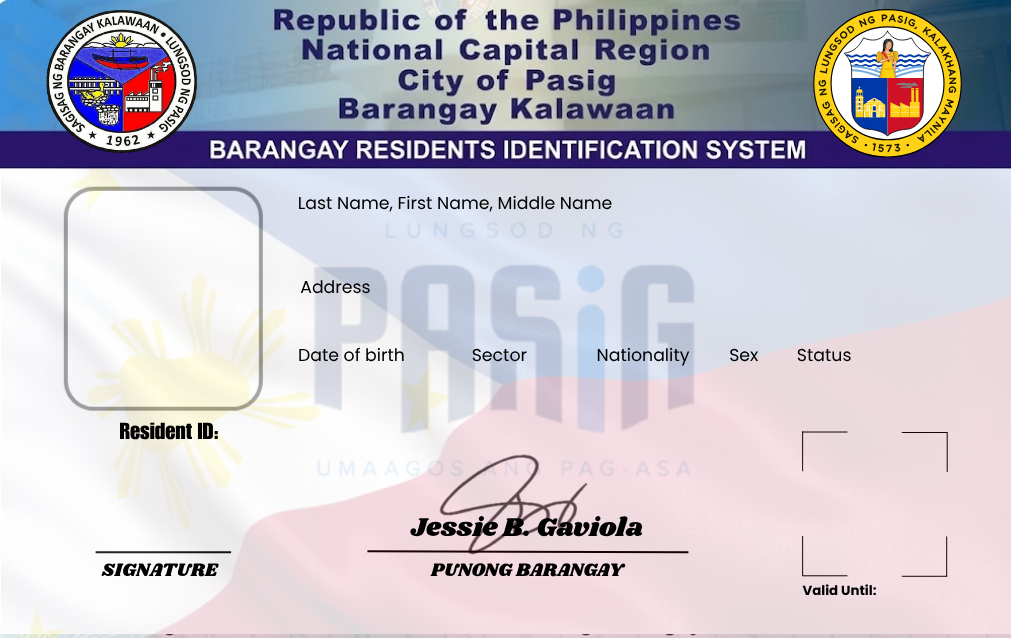
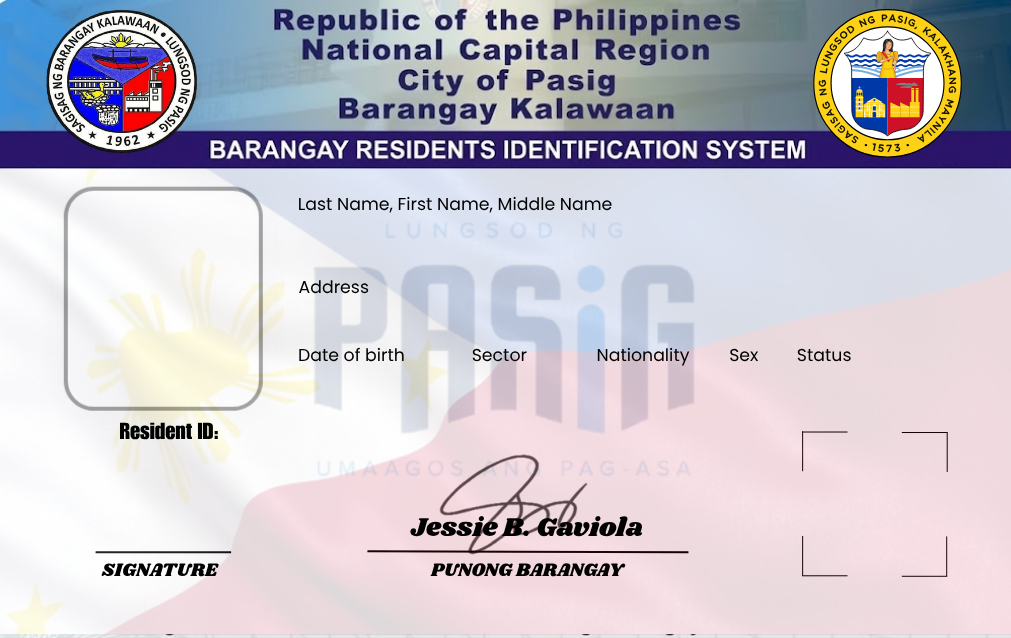
back id template

diff --git a/resources/views/ids/index.blade.php b/resources/views/ids/index.blade.php
@@ -51,17 +51,16 @@
                         <div style="position: absolute; left: 79.6%; top: 68.5%; width: 14%; height: 20.8%; border: 1px solid #000; background: #fff; display: flex; align-items: center; justify-content: center; padding: 2px;">
                             <img id="preview-qr-front" alt="QR Code" style="width: 100%; height: 100%; object-fit: contain; display: none;">
                         </div>
-                        <div id="preview-validity" style="position: absolute; left: 79.6%; top: 100%; width: 14%; font-size: 7px; font-weight: 800; text-align: center; color: #111; white-space: nowrap; overflow: hidden; text-overflow: ellipsis;">-</div>
+                        <div id="preview-validity" style="position: absolute; left: 74.6%; top: 91.4%; width: 24%; font-size: 7px; font-weight: 800; text-align: center; color: #111; white-space: nowrap; overflow: hidden; text-overflow: ellipsis;">Valid Until: -</div>
                     </div>
 
                     <!-- BACK PREVIEW -->
-                    <div class="id-card-preview position-relative overflow-hidden shadow-sm" style="width: 100%; max-width: 600px; margin: 0 auto; background-color: #f8f9fa; border-radius: 12px; font-family: sans-serif;">
-                        <!-- Background Pattern -->
-                        <div class="position-absolute w-100 h-100" style="opacity: 0.6; background: repeating-radial-gradient(circle at 0 100%, transparent 0, transparent 10px, rgba(0,56,168,0.03) 11px, rgba(0,56,168,0.03) 12px), repeating-radial-gradient(circle at 100% 0, transparent 0, transparent 10px, rgba(206,17,38,0.03) 11px, rgba(206,17,38,0.03) 12px); pointer-events: none;"></div>
+                    <div class="id-card-preview position-relative overflow-hidden shadow-sm" style="aspect-ratio: 1.586/1; width: 100%; max-width: 600px; margin: 0 auto; background-color: #f8f9fa; border-radius: 12px; font-family: sans-serif;">
+                        <img src="{{ asset('images/back-id.png') }}" alt="ID Back Template" style="position: absolute; inset: 0; width: 100%; height: 100%; object-fit: cover; display: block;">
 
                         <!-- Top Section: Emergency Contact Info -->
                         <div style="padding: 12px 14px; position: relative; z-index: 1;">
-                            <div style="text-align: center; font-weight: bold; color: #0038A8; font-size: 1.05rem; letter-spacing: 0.5px; margin-bottom: 8px; line-height: 1.2;">IN CASE OF EMERGENCY, KINDLY NOTIFY:</div>
+                            <div style="text-align: center; font-weight: bold; color: #fff; font-size: 1.05rem; letter-spacing: 0.5px; margin-bottom: 8px; line-height: 1.2;">IN CASE OF EMERGENCY, KINDLY NOTIFY:</div>
                             
                             <table style="width: 100%; font-size: 0.95rem; border-collapse: collapse; margin-bottom: 6px;">
                                 <tr style="line-height: 1.6;">
@@ -454,7 +453,7 @@ document.addEventListener('DOMContentLoaded', function() {
                     previewQrFront.style.display = 'block';
                 }
             }
-            previewValidity.textContent = formatDate(idData.expiration_date) || '-';
+            previewValidity.textContent = `Valid Until: ${formatMonthYear(idData.expiration_date) || '-'}`;
         } else {
             if (previewIdNo) previewIdNo.textContent = 'PENDING';
             if (previewQrFront) {
@@ -468,9 +467,9 @@ document.addEventListener('DOMContentLoaded', function() {
                 const month = createdDate.getMonth();
                 const date = createdDate.getDate();
                 const validityDate = new Date(year, month, date).toISOString().split('T')[0];
-                previewValidity.textContent = formatDate(validityDate);
+                previewValidity.textContent = `Valid Until: ${formatMonthYear(validityDate)}`;
             } else {
-                previewValidity.textContent = '-';
+                previewValidity.textContent = 'Valid Until: -';
             }
         }
     }
@@ -602,6 +601,7 @@ document.addEventListener('DOMContentLoaded', function() {
         const signatureUrl = resolveMediaUrl(currentResident.signature);
 
         const templateUrl = `${window.location.protocol}//${window.location.host}/images/id-template-blank.png`;
+        const backTemplateUrl = `${window.location.protocol}//${window.location.host}/images/back-id.png`;
 
         // Function to fetch and convert image to base64
         async function getImageBase64(url) {
@@ -624,17 +624,19 @@ document.addEventListener('DOMContentLoaded', function() {
         Promise.all([
             getImageBase64(photoUrl),
             getImageBase64(signatureUrl),
-            getImageBase64(templateUrl)
-        ]).then(([photoBase64, signatureBase64, templateBase64]) => {
+            getImageBase64(templateUrl),
+            getImageBase64(backTemplateUrl)
+        ]).then(([photoBase64, signatureBase64, templateBase64, backTemplateBase64]) => {
             const photoSrc = photoBase64;
             const signatureSrc = signatureBase64;
             const templateSrc = templateBase64 || templateUrl;
+            const backTemplateSrc = backTemplateBase64 || backTemplateUrl;
             const fullNamePrint = `${currentResident.last_name || ''}, ${currentResident.first_name || ''} ${currentResident.middle_name || ''}${currentResident.suffix ? ' ' + currentResident.suffix : ''}`.replace(/\s+/g, ' ').trim();
             const addressPrint = (currentResident.address || '-').replace(/\s+/g, ' ').trim();
             const sectorPrint = (currentResident.special_sector || '-').replace(/\s+/g, ' ').trim();
             const sectorLeftPrint = getSectorLeftPosition(currentResident.special_sector);
             const idNumberPrint = (currentID.id_number || '-').replace(/\s+/g, ' ').trim();
-            const validityPrint = formatDate(currentID.expiration_date);
+            const validityPrint = `Valid Until: ${formatMonthYear(currentID.expiration_date)}`;
 
             const nameFont = fitFontSize(fullNamePrint, 8.2, 5.4, 34);
             const addressFont = fitFontSize(addressPrint, 6.8, 5.1, 44);
@@ -668,15 +670,15 @@ document.addEventListener('DOMContentLoaded', function() {
                                 <div style="position: absolute; left: 79.6%; top: 68.5%; width: 14%; height: 20.8%; background: #fff; display: flex; align-items: center; justify-content: center; padding: 2px;">
                                     ${currentID.qr_code ? `<img src="${currentID.qr_code}" alt="QR" style="width: 100%; height: 100%; object-fit: contain;">` : ''}
                                 </div>
-                                <div style="position: absolute; left: 78.8%; top: 93%; width: 15.6%; text-align: center; font-size: 5px; font-weight: 900; white-space: nowrap; overflow: hidden; letter-spacing: 0.1px; ${printStrongStyle}">${validityPrint}</div>
+                                <div style="position: absolute; left: 74.6%; top: 92.3%; width: 24%; text-align: center; font-size: 5px; font-weight: 900; white-space: nowrap; overflow: hidden; letter-spacing: 0.1px; ${printStrongStyle}">${validityPrint}</div>
                             </div>
                 `;
 
         const backCardHTML = `
-              <div class="id-card">
-                <div class="bg-pattern"></div>
+                            <div class="id-card">
+                                <img src="${backTemplateSrc}" alt="Back Template" style="position: absolute; inset: 0; width: 100%; height: 100%; object-fit: cover;">
                 <div style="padding: 12px 14px; position: relative; z-index: 1;">
-                  <div style="text-align: center; font-weight: bold; color: #0038A8; font-size: 11px; letter-spacing: 0.5px; margin-bottom: 8px; line-height: 1.2;">IN CASE OF EMERGENCY, KINDLY NOTIFY:</div>
+                  <div style="text-align: center; font-weight: bold; color: #fff; font-size: 11px; letter-spacing: 0.5px; margin-bottom: 8px; line-height: 1.2;">IN CASE OF EMERGENCY, KINDLY NOTIFY:</div>
                   
                   <table style="width: 100%; font-size: 10px; border-collapse: collapse; margin-bottom: 6px;">
                     <tr style="line-height: 1.6;">
@@ -762,17 +764,6 @@ document.addEventListener('DOMContentLoaded', function() {
                                         aspect-ratio: 1.588;
                                     }
                                 }
-                                .bg-pattern {
-                                    position: absolute;
-                                    top: 0;
-                                    left: 0;
-                                    width: 100%;
-                                    height: 100%;
-                                    opacity: 0.6;
-                                    background: repeating-radial-gradient(circle at 0 100%, transparent 0, transparent 10px, rgba(0,56,168,0.03) 11px, rgba(0,56,168,0.03) 12px), repeating-radial-gradient(circle at 100% 0, transparent 0, transparent 10px, rgba(206,17,38,0.03) 11px, rgba(206,17,38,0.03) 12px);
-                                    pointer-events: none;
-                                }
-
                 @media print {
                   @page { size: 3.375in 2.125in; margin: 0; }
                                     html, body { margin: 0; padding: 0; background: #fff; }
